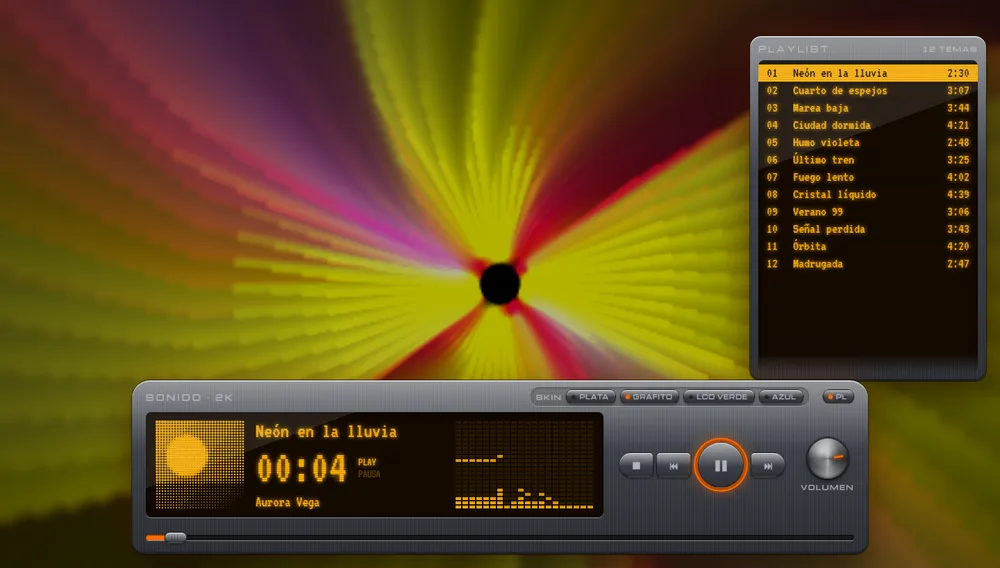
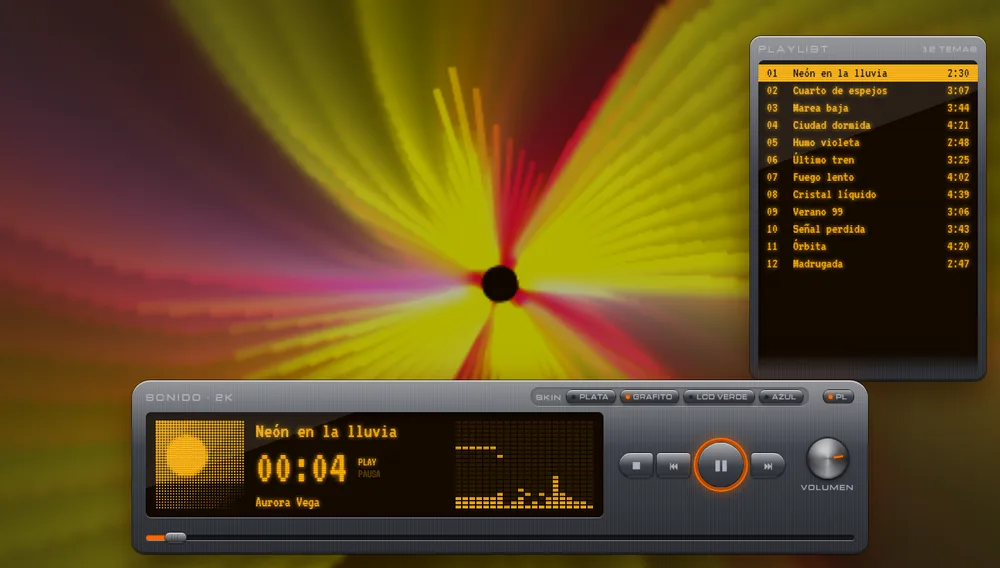
2000s: llamas en lugar de chispas, efectos hasta los bordes y bajo adaptativo para musica con bajo potente

diff --git a/web/visu2000.js b/web/visu2000.js
@@ -5,7 +5,7 @@
 // crearVisu2000(canvas) → { grupo([efectos]), intervalo(seg, 0 = solo al cambiar de canción), siguiente(),
 //                           dibujar(t, espectro, onda, bajo, medio, agudo, tono) }
 "use strict";
-const VISU2000 = ["estrellas", "anillos", "barras", "bateria", "chispas", "remolino", "rayos", "onda", "agua", "caleido"];
+const VISU2000 = ["estrellas", "anillos", "barras", "bateria", "llamas", "remolino", "rayos", "onda", "agua", "caleido"];
 function crearVisu2000(canvas) {
   const W = 480, H = 270, CX = W / 2, CY = H / 2, FUNDIDO = 2;
   const lienzo = () => { const c = document.createElement("canvas"); c.width = W; c.height = H; return c; };
@@ -13,8 +13,10 @@ function crearVisu2000(canvas) {
   const o = canvas.getContext("2d"), trabajo = lienzo(), g = trabajo.getContext("2d"), copia = lienzo(), c2 = copia.getContext("2d"), viejo = lienzo();
   const negro = (ctx) => { ctx.fillStyle = "#000"; ctx.fillRect(0, 0, W, H); };
   negro(g); negro(o);
-  let lista = VISU2000.slice(), modo = 0, cada = 45, desde = 0, ahora = 0, cambio = -99, prom = 0, golpe = 0, giro = 0;
-  let estrellas = [], anillos = [], chispas = [], gotas = [], ultimoAnillo = 0;
+  let pico = .3, lista = VISU2000.slice(), modo = 0, cada = 45, desde = 0, ahora = 0, cambio = -99, prom = 0, golpe = 0, giro = 0;
+  let estrellas = [], anillos = [], gotas = [], ultimoAnillo = 0;
+  const FW = 120, FH = 68, calor = new Float32Array(FW * (FH + 2)), fuego = document.createElement("canvas"); fuego.width = FW; fuego.height = FH;
+  const fg = fuego.getContext("2d"), fimg = fg.createImageData(FW, FH);
 
   // redibuja el cuadro anterior transformado: zoom > 1 = túnel hacia afuera; filtro = humo o cambio de color
   function eco(zoom, rot, alfa, filtro) {
@@ -25,6 +27,11 @@ function crearVisu2000(canvas) {
   }
   const col = (h, l, a) => `hsla(${h},100%,${l}%,${a})`;
   const banda = (d, i, n) => { const a = Math.floor(2 * Math.pow(90, i / n)), b = Math.max(a + 1, Math.floor(2 * Math.pow(90, (i + 1) / n))); let s = 0; for (let k = a; k < b; k++) s += d[k] || 0; return Math.min(1, s / (b - a) / 200); };
+  const hsl = (h, s, l) => {   // de HSL a RGB (0-255) para pintar el fuego pixel a pixel
+    h = ((h % 1) + 1) % 1; const q = l < .5 ? l * (1 + s) : l + s - l * s, p = 2 * l - q;
+    const c = (t) => { t = ((t % 1) + 1) % 1; return 255 * (t < 1 / 6 ? p + (q - p) * 6 * t : t < .5 ? q : t < 2 / 3 ? p + (q - p) * (2 / 3 - t) * 6 : p); };
+    return [c(h + 1 / 3), c(h), c(h - 1 / 3)];
+  };
   const sumar = (f) => { g.globalCompositeOperation = "lighter"; f(); g.globalCompositeOperation = "source-over"; };
 
   const EFECTOS = {
@@ -69,7 +76,7 @@ function crearVisu2000(canvas) {
         g.stroke();
       });
     },
-    // Grafito: batería, fuente de chispas, remolino de plasma
+    // Grafito: batería, llamas, remolino de plasma
     bateria(t, x) {
       giro += .004 + x.bajo * .02;
       eco(1.035 + x.bajo * .05, .015 + x.bajo * .03, .945);
@@ -83,24 +90,25 @@ function crearVisu2000(canvas) {
       });
       g.fillStyle = "#000"; g.beginPath(); g.arc(CX, CY, 5 + x.bajo * 8, 0, 7); g.fill();   // el "ojo" negro del túnel
     },
-    chispas(t, x) {
-      eco(1, 0, .8, "blur(.5px)");
-      for (let k = 0, n = 2 + Math.round(x.bajo * 6 + golpe * 22); k < n; k++)
-        chispas.push({ x: CX + (Math.random() - .5) * 20, y: H * .95, vx: (Math.random() - .5) * 3, vy: -(2.5 + Math.random() * 3.5) * (1 + x.bajo), v: 1 });
-      sumar(() => {
-        for (let i = chispas.length - 1; i >= 0; i--) {
-          const c = chispas[i]; c.x += c.vx; c.y += c.vy; c.vy += .09; c.v -= .008;
-          if (c.v <= 0 || c.y > H) { chispas.splice(i, 1); continue; }
-          g.fillStyle = col(x.tono + (1 - c.v) * 40, 45 + c.v * 15, c.v * .8); g.fillRect(c.x, c.y, 2, 2);
-        }
-      });
-      if (chispas.length > 1500) chispas.splice(0, chispas.length - 1500);
+    llamas(t, x) {   // el fuego clásico de los 2000: calor que nace abajo y sube enfriándose
+      for (let i = 0; i < FW; i++) calor[(FH + 1) * FW + i] = calor[FH * FW + i] = Math.random() < .42 + x.bajo * .25 ? 1.1 + x.bajo * .3 + golpe * .5 : 0;
+      const enfr = .006 - x.bajo * .002;
+      for (let y = 0; y < FH; y++) for (let i = 0; i < FW; i++) {
+        const k = (y + 1) * FW, v = (calor[k + (i + FW - 1) % FW] + calor[k + i] + calor[k + (i + 1) % FW] + calor[k + FW + i]) / 4.02 - enfr - Math.random() * .011;   // enfriamiento irregular = lenguas de fuego
+        calor[y * FW + i] = v > 0 ? v : 0;
+      }
+      const px = fimg.data;
+      for (let y = 0; y < FH; y++) for (let i = 0; i < FW; i++) {
+        const v = Math.min(1, calor[y * FW + i] * 1.25), j = (y * FW + i) * 4, h = (x.tono - 25 + v * 40) / 360;
+        const [rr, gg, bb] = hsl(h, 1, Math.min(.6, v * .7)); px[j] = rr; px[j + 1] = gg; px[j + 2] = bb; px[j + 3] = 255;
+      }
+      fg.putImageData(fimg, 0, 0); g.imageSmoothingEnabled = true; g.drawImage(fuego, 0, 0, W, H);
     },
     remolino(t, x) {
       eco(1.008, .03 + x.bajo * .03, .96, "blur(1px)");
       sumar(() => {
         for (let k = 0; k < 5; k++) {
-          const a = t * (.6 + k * .15) + k * 1.26, r = 20 + x.medio * 70 + 15 * Math.sin(t + k), px = CX + Math.cos(a) * r, py = CY + Math.sin(a) * r * .7, s = 14 + x.bajo * 26;
+          const a = t * (.6 + k * .15) + k * 1.26, r = 45 + x.medio * 110 + 25 * Math.sin(t + k), px = CX + Math.cos(a) * r, py = CY + Math.sin(a) * r * .6, s = 30 + x.bajo * 40;
           const m = g.createRadialGradient(px, py, 0, px, py, s); m.addColorStop(0, col(x.tono + k * 12 - 25, 50, .22)); m.addColorStop(1, col(x.tono, 30, 0));
           g.fillStyle = m; g.fillRect(px - s, py - s, s * 2, s * 2);
         }
@@ -110,7 +118,7 @@ function crearVisu2000(canvas) {
     rayos(t, x) {
       eco(1.012, .004, .9, "blur(1.4px)");
       sumar(() => {
-        const r = 40 + x.bajo * 70, nube = g.createRadialGradient(CX, CY, 0, CX, CY, r);
+        const r = 70 + x.bajo * 110, nube = g.createRadialGradient(CX, CY, 0, CX, CY, r);
         nube.addColorStop(0, col(x.tono, 62, .28 + x.bajo * .25)); nube.addColorStop(.4, col(x.tono, 48, .16)); nube.addColorStop(1, col(x.tono, 30, 0));
         g.fillStyle = nube; g.fillRect(0, 0, W, H);
         for (let k = 0; k < 6; k++) {   // humo que se arremolina alrededor del centro
@@ -121,7 +129,7 @@ function crearVisu2000(canvas) {
         g.strokeStyle = col(x.tono + 10, 64, .7); g.shadowColor = col(x.tono, 50, .9); g.shadowBlur = 6; g.lineWidth = 1.2;
         for (let k = 0, n = 1 + Math.round(golpe * 4 + x.agudo * 2); k < n; k++) {   // relámpagos del centro hacia afuera
           let a = Math.random() * Math.PI * 2, px = CX, py = CY; g.beginPath(); g.moveTo(px, py);
-          for (let s = 0; s < 14; s++) { a += (Math.random() - .5) * .9; px += Math.cos(a) * 14; py += Math.sin(a) * 14; g.lineTo(px, py); }
+          for (let s = 0; s < 22; s++) { a += (Math.random() - .5) * .9; px += Math.cos(a) * 14; py += Math.sin(a) * 14; g.lineTo(px, py); }
           g.stroke();
         }
         g.shadowBlur = 0;
@@ -133,7 +141,7 @@ function crearVisu2000(canvas) {
         for (let rep = 0; rep < 2; rep++) {   // la onda real en cruz; la retroalimentación la vuelve remolino
           g.save(); g.translate(CX, CY); g.rotate(t * .5 + rep * Math.PI / 2);
           g.strokeStyle = col(x.tono + rep * 50, 55, .6); g.lineWidth = 1.6; g.beginPath();
-          for (let i = 0; i < x.onda.length; i += 4) { const px = (i / x.onda.length - .5) * W * .7, py = (x.onda[i] - 128) / 128 * H * .35 * (1 + x.bajo); i ? g.lineTo(px, py) : g.moveTo(px, py); }
+          for (let i = 0; i < x.onda.length; i += 4) { const px = (i / x.onda.length - .5) * W * 1.1, py = (x.onda[i] - 128) / 128 * H * .4 * (1 + x.bajo); i ? g.lineTo(px, py) : g.moveTo(px, py); }
           g.stroke(); g.restore();
         }
       });
@@ -151,7 +159,7 @@ function crearVisu2000(canvas) {
     },
     caleido(t, x) {
       eco(1.012, .012, .9, "hue-rotate(2deg)");
-      const N = 8, R = H * .55;
+      const N = 8, R = W * .62;
       sumar(() => {
         g.lineWidth = 1.4;
         for (let k = 0; k < N; k++) for (const lado of [1, -1]) {   // un trozo de la onda repetido en espejo alrededor del centro
@@ -166,7 +174,7 @@ function crearVisu2000(canvas) {
 
   function cambiar() {
     const v = viejo.getContext("2d"); v.clearRect(0, 0, W, H); v.drawImage(canvas, 0, 0);   // el efecto anterior se funde
-    negro(g); estrellas = []; anillos = []; chispas = []; gotas = [];
+    negro(g); estrellas = []; anillos = []; gotas = []; calor.fill(0);
     modo = (modo + 1) % lista.length; desde = ahora; cambio = ahora;
   }
   return {
@@ -174,11 +182,16 @@ function crearVisu2000(canvas) {
     intervalo(s) { cada = s; },
     siguiente: cambiar,
     dibujar(t, d, onda, bajo, medio, agudo, tono) {
+      // se adapta a la música: el bajo se mide contra su pico reciente (con bajo potente no queda todo al máximo)
+      pico = Math.max(bajo, pico * .997, .15); bajo = Math.min(1, bajo / pico * .5);
       ahora = t; if (!desde) desde = t;
       prom = prom * .94 + bajo * .06; if (bajo > prom * 1.22 + .07) golpe = 1; golpe *= .86;
       if (cada > 0 && t - desde > cada) cambiar();
       EFECTOS[lista[modo]](t, { d, onda, bajo, medio, agudo, tono });
-      o.globalAlpha = 1; o.drawImage(trabajo, 0, 0);
+      const base = o.createRadialGradient(CX, CY, 0, CX, CY, W * .62);
+      base.addColorStop(0, col(tono, 35, .1 + bajo * .08)); base.addColorStop(1, col(tono + 20, 22, .16 + bajo * .06));
+      o.globalAlpha = 1; o.fillStyle = "#000"; o.fillRect(0, 0, W, H); o.fillStyle = base; o.fillRect(0, 0, W, H);
+      o.globalCompositeOperation = "lighter"; o.drawImage(trabajo, 0, 0); o.globalCompositeOperation = "source-over";
       const f = 1 - (t - cambio) / FUNDIDO; if (f > 0 && f <= 1) { o.globalAlpha = f; o.drawImage(viejo, 0, 0); o.globalAlpha = 1; }
     },
   };

diff --git a/web/dosmil.html b/web/dosmil.html
@@ -170,7 +170,7 @@ const $ = (id) => document.getElementById(id);
 const raiz = document.documentElement.style;
 const SKINS = {
   "Plata":     { metal: "#c3c9d3", grabado: "#3b4250", lcd: "#06131f", tinta: "#7fdcff", acento: "#3fa9ff", visu: ["estrellas", "anillos", "barras"] },
-  "Grafito":   { metal: "#3b3e46", grabado: "#aeb2bb", lcd: "#140a00", tinta: "#ffb000", acento: "#ff6a00", visu: ["bateria", "chispas", "remolino"] },
+  "Grafito":   { metal: "#3b3e46", grabado: "#aeb2bb", lcd: "#140a00", tinta: "#ffb000", acento: "#ff6a00", visu: ["bateria", "llamas", "remolino"] },
   "LCD verde": { metal: "#b4bba6", grabado: "#3d4535", lcd: "#a3b585", tinta: "#16220e", acento: "#5bd13a", visu: ["rayos", "onda"] },
   "Azul":      { metal: "#2b4fae", grabado: "#d2deff", lcd: "#000a18", tinta: "#e6f3ff", acento: "#00e5ff", visu: ["agua", "caleido"] },
 };
